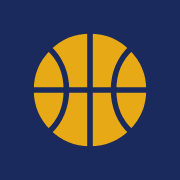
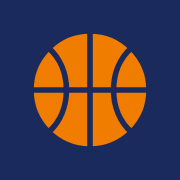
Colori blu e arancio di Rimadesio Aurora per pagina e icona
Claude-Session: https://claude.ai/code/session_018s8v7SVMXD5NcVb5bKq1HN

Changed region(s): [[0.1667, 0.1667, 0.8333, 0.8333]]

diff --git a/index.html b/index.html
@@ -14,22 +14,22 @@
 /* Layout: scoreboard header with team record, segmented tabs, single readable column; bracket scrolls sideways on phones */
 :root{
   --bg:#f3f4f7; --surface:#ffffff; --line:#dfe2ea; --fg:#141a2b; --muted:#5d6579;
-  --navy:#1b2a5c; --navy-fg:#ffffff; --gold:#e8a917; --gold-ink:#7a5500; --gold-bg:#fbf1d6;
+  --navy:#1b2a5c; --navy-fg:#ffffff; --gold:#f07c00; --gold-ink:#a84f00; --gold-bg:#fde8d2;
   --silver:#7c8598; --silver-bg:#eceef3;
-  --win:#1f7a4a; --win-bg:#e3f3ea; --loss:#b3322b; --loss-bg:#fbe7e5; --soft:#eef0f6; --me:#1b2a5c; --on-gold:#221800;
+  --win:#1f7a4a; --win-bg:#e3f3ea; --loss:#b3322b; --loss-bg:#fbe7e5; --soft:#eef0f6; --me:#1b2a5c; --on-gold:#13204a;
   --display:"Barlow Condensed","Arial Narrow",Arial,sans-serif;
   --body:"Source Sans 3","Segoe UI",system-ui,sans-serif;
 }
 @media (prefers-color-scheme:dark){:root:not([data-theme="light"]){
   --bg:#0e1220; --surface:#161b2d; --line:#2a3149; --fg:#e9ecf5; --muted:#9aa2b8;
-  --navy:#22346f; --navy-fg:#ffffff; --gold:#f2b632; --gold-ink:#f6c55a; --gold-bg:#3a2f12;
+  --navy:#22346f; --navy-fg:#ffffff; --gold:#ff9126; --gold-ink:#ffab5e; --gold-bg:#3d2510;
   --silver:#aab2c4; --silver-bg:#242a3e;
-  --win:#5fd197; --win-bg:#173526; --loss:#ff8a80; --loss-bg:#3d1c1b; --soft:#1d2338; --me:#f2b632; color-scheme:dark}}
+  --win:#5fd197; --win-bg:#173526; --loss:#ff8a80; --loss-bg:#3d1c1b; --soft:#1d2338; --me:#ff9126; color-scheme:dark}}
 :root[data-theme="dark"]{
   --bg:#0e1220; --surface:#161b2d; --line:#2a3149; --fg:#e9ecf5; --muted:#9aa2b8;
-  --navy:#22346f; --navy-fg:#ffffff; --gold:#f2b632; --gold-ink:#f6c55a; --gold-bg:#3a2f12;
+  --navy:#22346f; --navy-fg:#ffffff; --gold:#ff9126; --gold-ink:#ffab5e; --gold-bg:#3d2510;
   --silver:#aab2c4; --silver-bg:#242a3e;
-  --win:#5fd197; --win-bg:#173526; --loss:#ff8a80; --loss-bg:#3d1c1b; --soft:#1d2338; --me:#f2b632; color-scheme:dark}
+  --win:#5fd197; --win-bg:#173526; --loss:#ff8a80; --loss-bg:#3d1c1b; --soft:#1d2338; --me:#ff9126; color-scheme:dark}
 *{box-sizing:border-box}
 [hidden]{display:none!important}
 body{background:var(--bg);color:var(--fg);font-family:var(--body);font-size:15px;line-height:1.45;margin:0}
